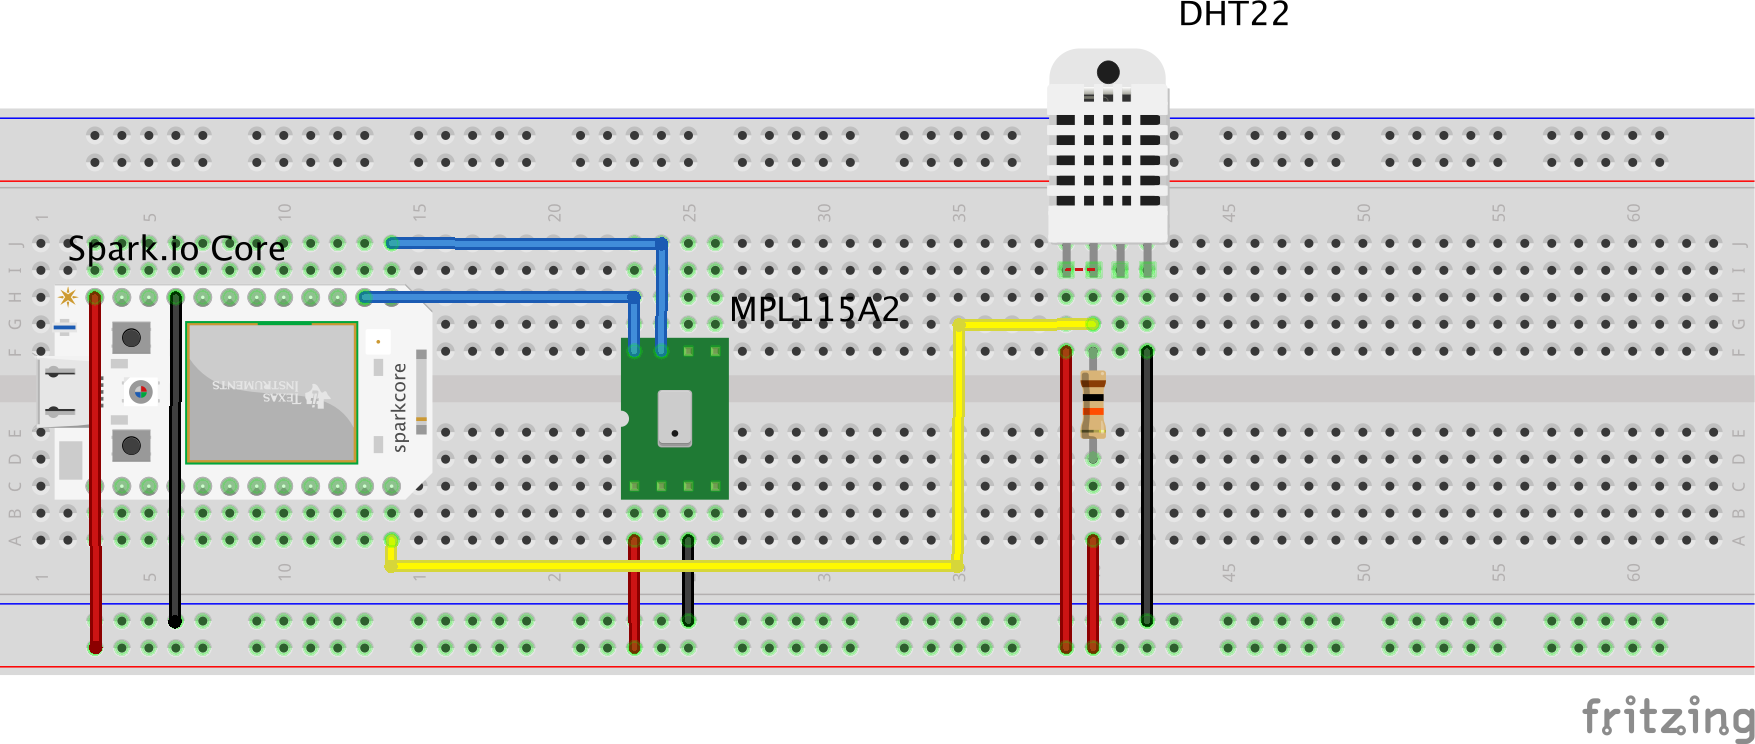
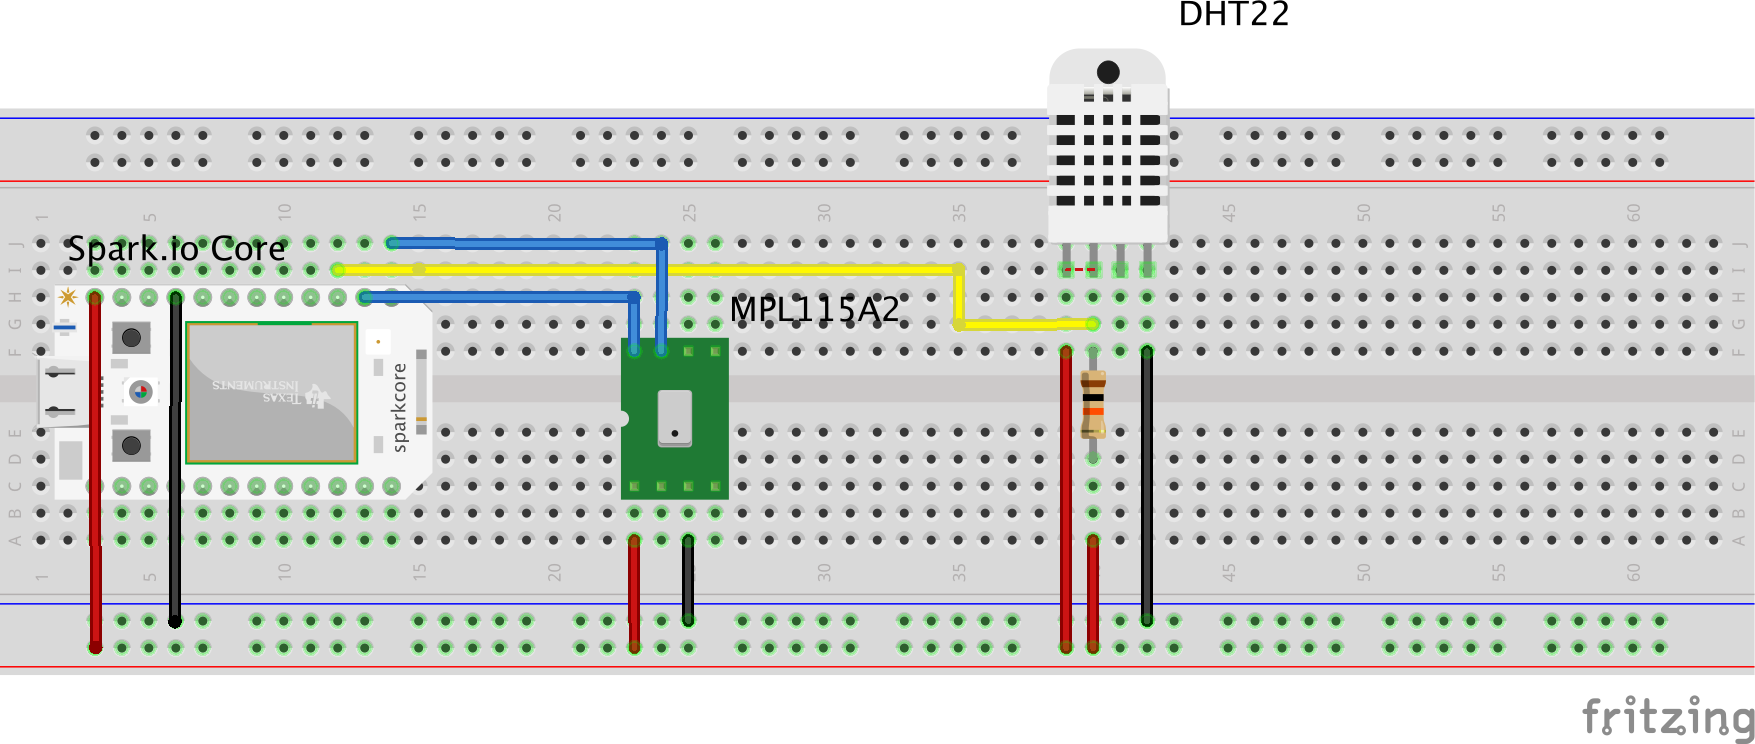
removed DHT22 for the moment
the code seems unstable and causes the Spark to crash. Removing DHT22 for the moment

Changed region(s): [[0.1846, 0.3401, 0.5538, 0.7728]]

diff --git a/update_rrd.py b/update_rrd.py
@@ -8,10 +8,6 @@ import json
 import ConfigParser, os
 
 
-
-
-
- 
 temperature = 0
 pressure = 0
 YOURDEVICEID = ""
@@ -33,10 +29,15 @@ def read_metric(metric):
 
 
 def update_rrd(temperature, pressure):
-	 ret = rrdtool.update('climate.rrd','N:' + str(temperature) + ':' + str(pressure));
+	 ret = rrdtool.update('climate.rrd','--template','temperature:pressure','N:' + str(temperature) + ':' + str(pressure));
 	 if ret:
 	    print rrdtool.error()
-	 # time.sleep(300)
+
+
+def update_rrd_dht22(dht22temp, humidity):
+		 ret = rrdtool.update('climate.rrd','--template','dht22temp:humidity', 'N:' + str(dht22temp) + ':' + str(humidity));
+		 if ret:
+		    print rrdtool.error()
 
 
 
@@ -52,8 +53,12 @@ if __name__ == '__main__':
 	print "Config DeviceID: " + YOURDEVICEID
 	print "Config Access Token: " + ACCESS_TOKEN
 
-	temp = read_metric("temp")
+	temp = read_metric("temperature")
+	# dht22 = read_metric("dht22temperature")
+	# humidity = read_metric("humidity")
 	pressure = read_metric("pressure")
 	print "Temperature: " + str(round(temp,2)) + " C"
+	# print "Temperature DHT22: " + str(round(dht22,2)) + " C"
 	print "Pressure: " + str(round(pressure,2)) + " hPa"
+	# print "Humidity: " + str(round(humidity,2)) + " %"
 	update_rrd(temp, pressure)

diff --git a/create_rrd.py b/create_rrd.py
@@ -3,7 +3,9 @@ import rrdtool
  
 ret = rrdtool.create("climate.rrd", "--step", "60", "--start", '0',
  "DS:temperature:GAUGE:120:U:U",
+ "DS:dht22temperature:GAUGE:120:U:U",
  "DS:pressure:GAUGE:120:U:U",
+ "DS:humidity:GAUGE:120:U:U",
  "RRA:AVERAGE:0.5:1:600",
  "RRA:AVERAGE:0.5:6:700",
  "RRA:AVERAGE:0.5:24:775",
